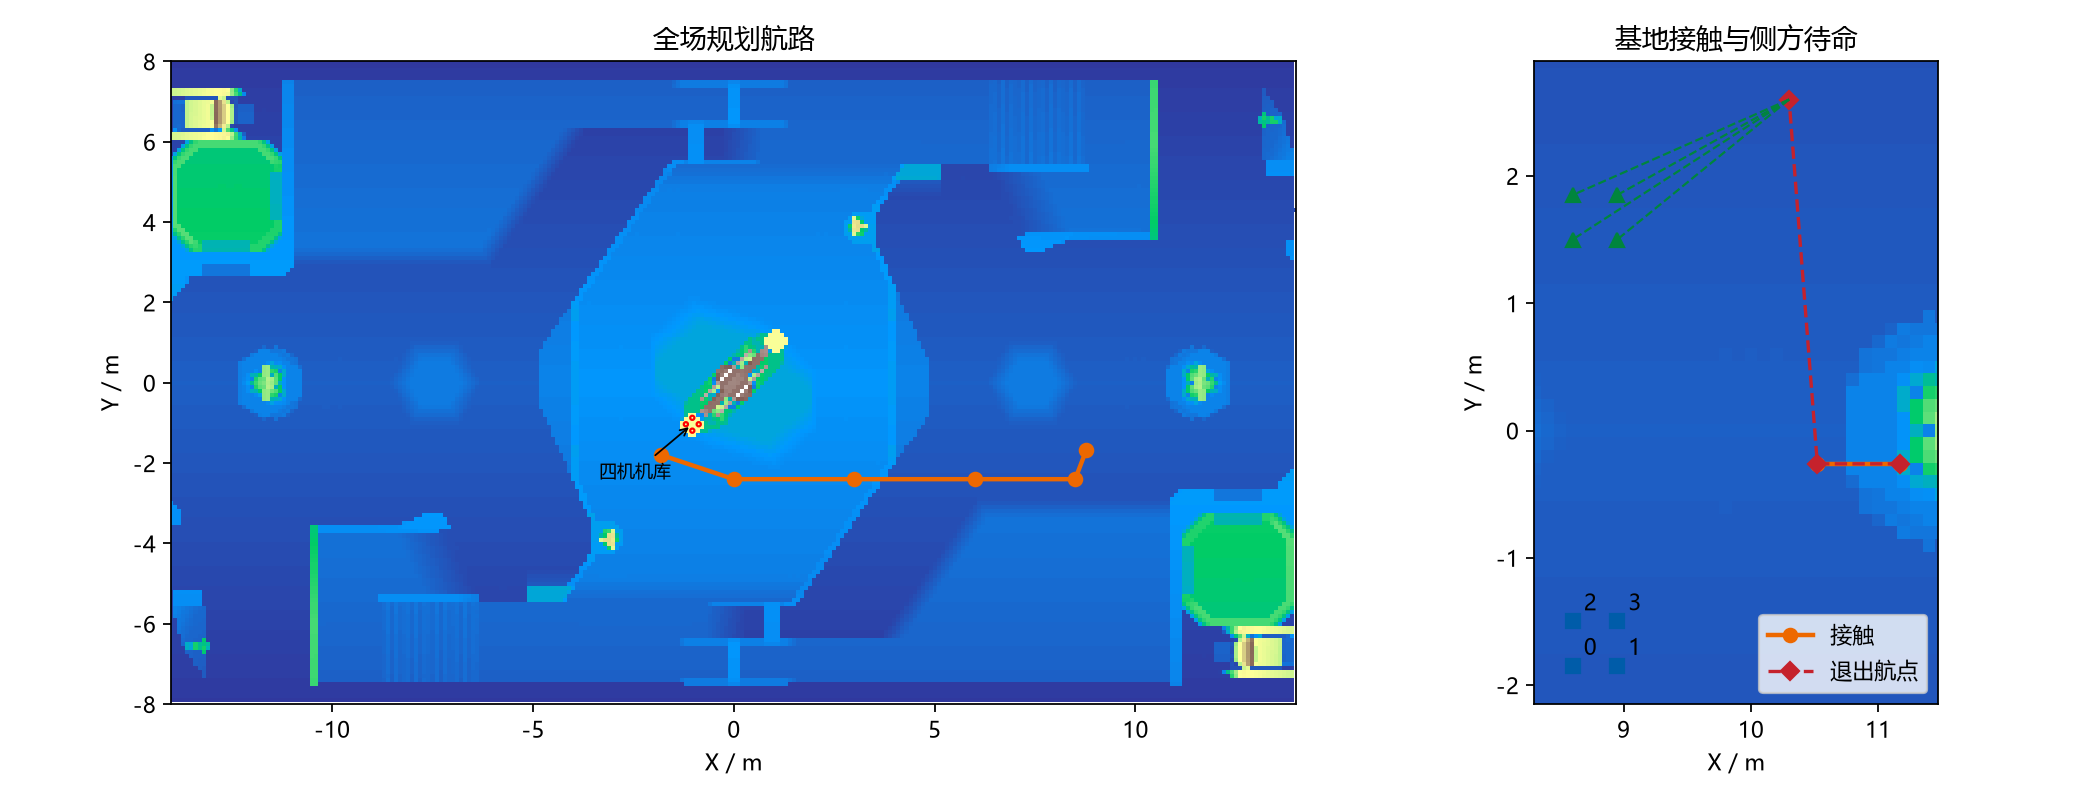
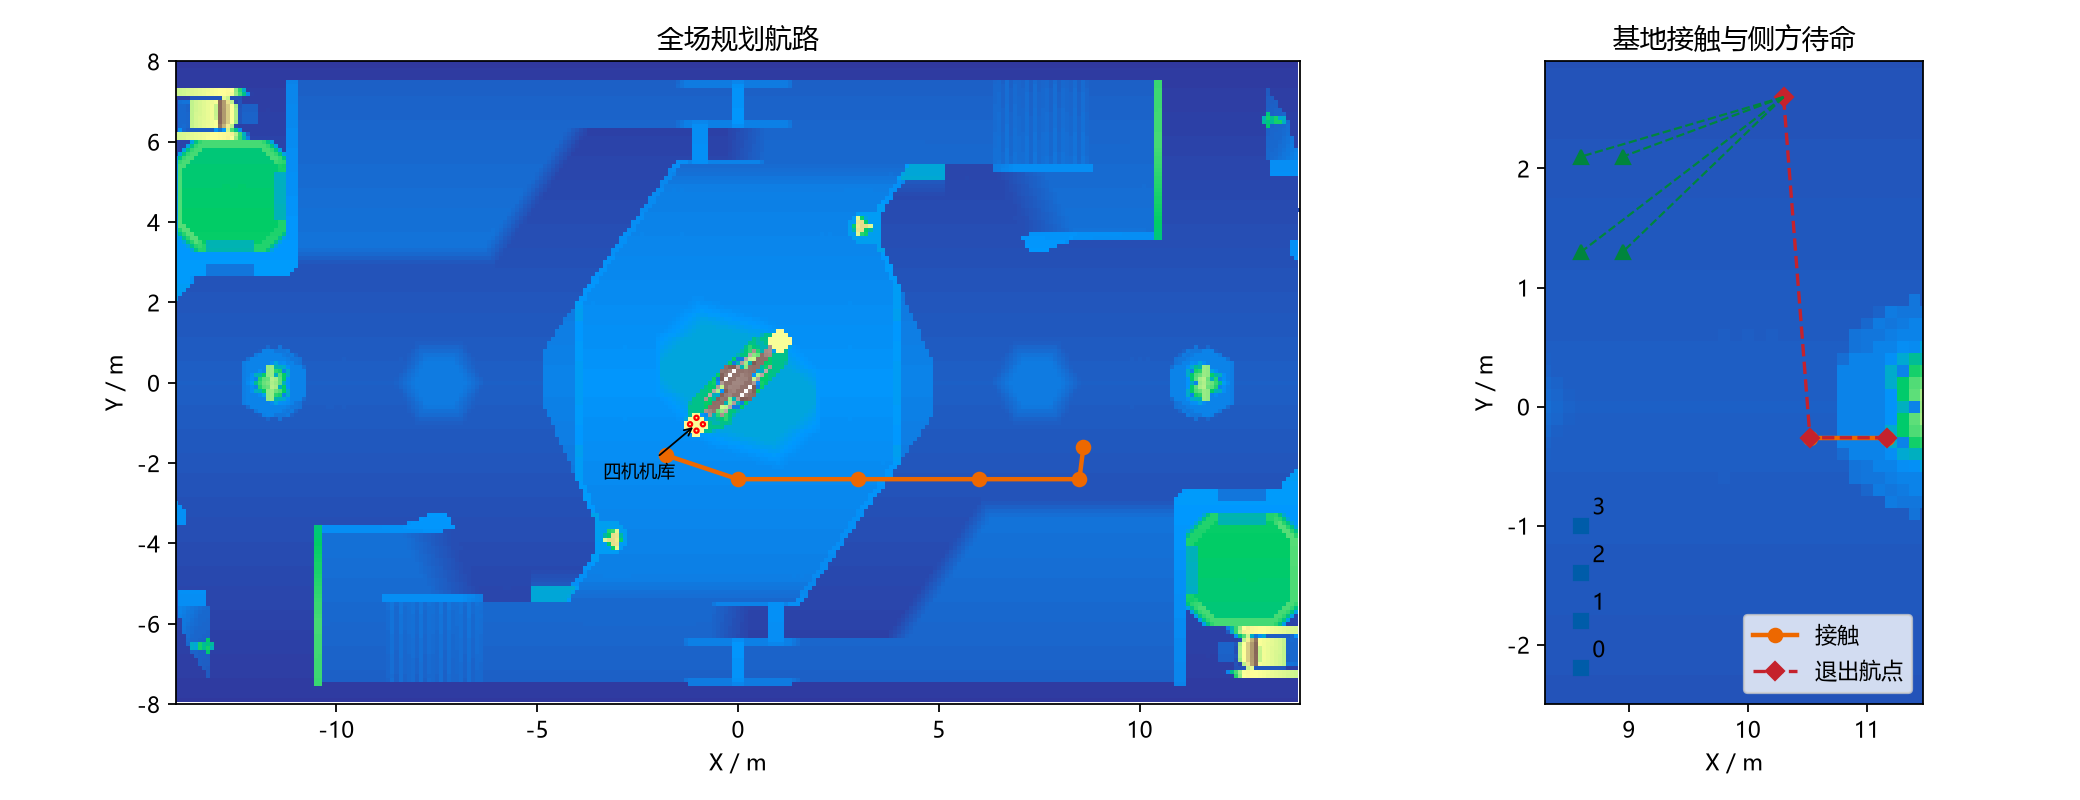
fix(simulation): clear waiting aircraft from the 2027 approach paths

diff --git a/simulation/check_map.py b/simulation/check_map.py
@@ -124,6 +124,43 @@ def landing_waiting_separation(config):
             'segments': checks, 'passed': all(row['passed'] for row in checks)}
 
 
+def approach_waiting_separation(config):
+    """按水平投影检查非流水接近航线与待接触、已完成成员的净距。"""
+    mission = config['team_mission']
+    order = [] if mission.get('pipelined_contact') else mission['order']
+    assembly = {p['id']: np.array([p['x'], p['y']]) for p in mission['assembly']}
+    holding = {p['id']: np.array([p['x'], p['y']])
+               for p in mission.get('completed_holding', mission['assembly'])}
+    entry = mission['approach']
+    dive = mission.get('dive_attack', {})
+    if dive.get('enabled'):
+        entry = mission.get('dive_entry', {
+            'x': mission['target']['x'] - dive.get('entry_standoff_m', 1.35),
+            'y': mission['target']['y'],
+        })
+    end = np.array([entry['x'], entry['y']])
+    diameter = 2 * mission['contact_radius_m']
+    checks = []
+    for slot, vehicle in enumerate(order):
+        start = assembly[vehicle]
+        change = end - start
+        norm = float(change @ change)
+        for index, waiting in enumerate(order):
+            if waiting == vehicle:
+                continue
+            waiting_phase = 'completed_holding' if index < slot else 'assembly'
+            point = holding[waiting] if index < slot else assembly[waiting]
+            fraction = float(np.clip((point - start) @ change / norm, 0, 1)) if norm > 1e-12 else 0.0
+            distance = float(np.linalg.norm(start + fraction * change - point))
+            checks.append({'vehicle': vehicle, 'waiting_vehicle': waiting,
+                           'waiting_phase': waiting_phase, 'fraction': fraction,
+                           'distance_m': distance, 'passed': distance >= diameter})
+    return {'scope': 'nonpipelined_approach_horizontal_projection', 'order': order,
+            'body_diameter_m': diameter, 'entry_xy_m': end.tolist(),
+            'minimum_distance_m': min((row['distance_m'] for row in checks), default=None),
+            'segments': checks, 'passed': all(row['passed'] for row in checks)}
+
+
 def check_map(path, margin=.02):
     path = Path(path)
     config = json.loads(path.read_text(encoding='utf-8'))
@@ -200,10 +237,14 @@ def check_map(path, margin=.02):
     failures.extend({'kind': 'formation_separation', **row} for row in separation['segments'] if not row['passed'])
     landing = landing_waiting_separation(config)
     failures.extend({'kind': 'landing_waiting_separation', **row} for row in landing['segments'] if not row['passed'])
+    approach_separation = approach_waiting_separation(config)
+    failures.extend({'kind': 'approach_waiting_separation', **row}
+                    for row in approach_separation['segments'] if not row['passed'])
     return {'map': config['name'], 'scope': 'static_mesh_clearance', 'margin_m': margin,
                 'triangle_count': len(triangles), 'homes': homes, 'transit_segments': routes,
                 'formation_separation': separation,
                 'landing_waiting_separation': landing,
+                'approach_waiting_separation': approach_separation,
                 'landing_alignment_segments': alignment_routes,
                 'retreat_exit_segments': retreat_routes,
                 'target_hit': target_hit, 'failures': failures, 'passed': not failures}

diff --git a/simulation/tests/test_map_clearance.py b/simulation/tests/test_map_clearance.py
@@ -8,6 +8,7 @@ import numpy as np
 from simulation.check_map import (
     TriangleScene,
     check_map,
+    approach_waiting_separation,
     formation_separation,
     landing_waiting_separation,
 )
@@ -36,8 +37,8 @@ def test_hangar_departure_preserves_vehicle_order_and_body_separation():
     assert report['passed']
     assert report['minimum_distance_m'] >= .139
     offsets = config['team_mission']['formation_offsets']
-    offsets[1].update(x=-.35, y=.35)
-    offsets[2].update(x=.35, y=-.35)
+    offsets[0].update(x=.35, y=0)
+    offsets[3].update(x=-.35, y=0)
     crossing = formation_separation(config)
     assert not crossing['passed']
     assert crossing['minimum_distance_m'] < .087
@@ -77,3 +78,21 @@ def test_alignment_descent_clears_tray_rim_with_position_tolerance(tmp_path):
     blocked = check_map(candidate)
     assert not blocked['passed']
     assert any(row['kind'] == 'landing_alignment' for row in blocked['failures'])
+
+
+def test_contact_approach_does_not_cross_waiting_members():
+    path = Path(__file__).resolve().parents[1] / 'maps/rmuc_2027.json'
+    config = json.loads(path.read_text(encoding='utf-8'))
+    report = approach_waiting_separation(config)
+    assert report['passed']
+    assert report['minimum_distance_m'] >= .28
+    assert len(report['segments']) == 12
+    assert any(row['waiting_phase'] == 'completed_holding' for row in report['segments'])
+
+    for point in config['team_mission']['assembly']:
+        point.update(x=8.6 if point['id'] % 2 == 0 else 8.95,
+                     y=-1.85 if point['id'] < 2 else -1.5)
+    blocked = approach_waiting_separation(config)
+    assert not blocked['passed']
+    assert any(row['vehicle'] == 0 and row['waiting_vehicle'] == 3 and not row['passed']
+               for row in blocked['segments'])
